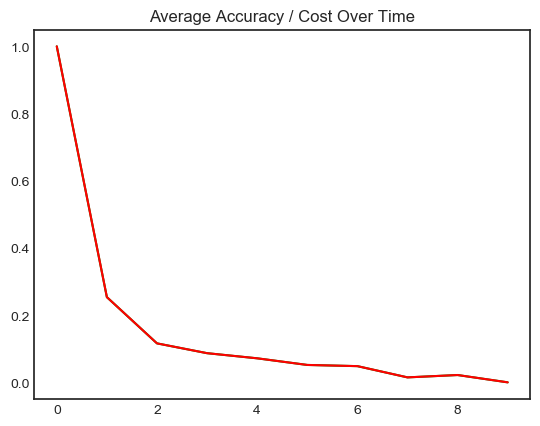
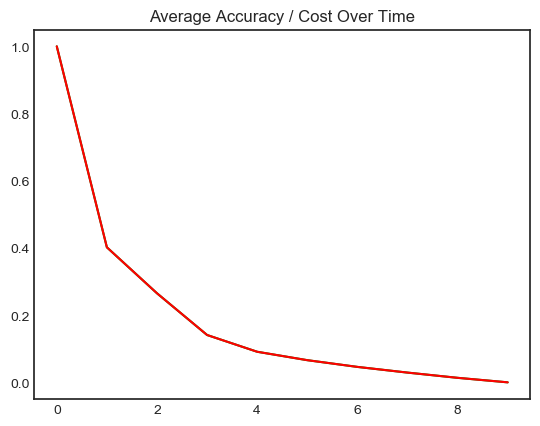
s

diff --git a/NeuralNetwork/LSTM-GAN/b_npy.py b/NeuralNetwork/LSTM-GAN/b_npy.py
@@ -273,15 +273,15 @@ print(test_label.min(axis=(1,2,3)).max())
 print('-----------------------')
 
 # class
-l0 = CNN_3D(10,3,3,1,3)
-l1 = CNN_3D(10,3,3,3,6)
-l2 = CNN_3D(10,3,3,6,6)
-l3 = CNN_3D(10,3,3,6,3)
-l4 = CNN_3D(10,3,3,3,1,act=tf_sigmoid)
+l0 = CNN_3D(3,3,3,1,4)
+l1 = CNN_3D(3,3,3,4,8)
+l2 = CNN_3D(3,3,3,8,8,act=tf_sigmoid)
+l3 = CNN_3D(3,3,3,8,4)
+l4 = CNN_3D(1,1,1,4,1,act=tf_sigmoid)
 
 # hyper
-num_epoch = 10 
-learning_rate = 0.00008
+num_epoch = 10
+learning_rate = 0.0008
 batch_size = 2
 print_size = 1
 divide_size = 3
@@ -315,8 +315,8 @@ with tf.Session() as sess:
     # start the training
     for iter in range(num_epoch):
 
-        train_batch,train_label = shuffle(train_batch,train_label)
-        test_batch,test_label = shuffle(test_batch,test_label)
+        # train_batch,train_label = shuffle(train_batch,train_label)
+        # test_batch,test_label = shuffle(test_batch,test_label)
 
         # train for batch
         for batch_size_index in range(0,len(train_batch),batch_size):

diff --git a/NeuralNetwork/LSTM-GAN/z_read_case.py b/NeuralNetwork/LSTM-GAN/z_read_case.py
@@ -241,9 +241,9 @@ class Sparse_Filter_Layer():
 # ================= LAYER CLASSES =================
 
 # read the data
-test_data= np.squeeze(np.load('./casea_conv/test_data.npy'))[1]
-test_label_gt= np.squeeze(np.load('./casea_conv/test_label_gt.npy'))[1]
-test_label_pd= np.squeeze(np.load('./casea_conv/test_label_pd.npy'))[1]
+test_data= np.squeeze(np.load('./test_data.npy'))[1]
+test_label_gt= np.squeeze(np.load('./test_label_gt.npy'))[1]
+test_label_pd= np.squeeze(np.load('./test_label_pd.npy'))[1]
 
 print(test_data.shape)
 print(test_label_gt.shape)
